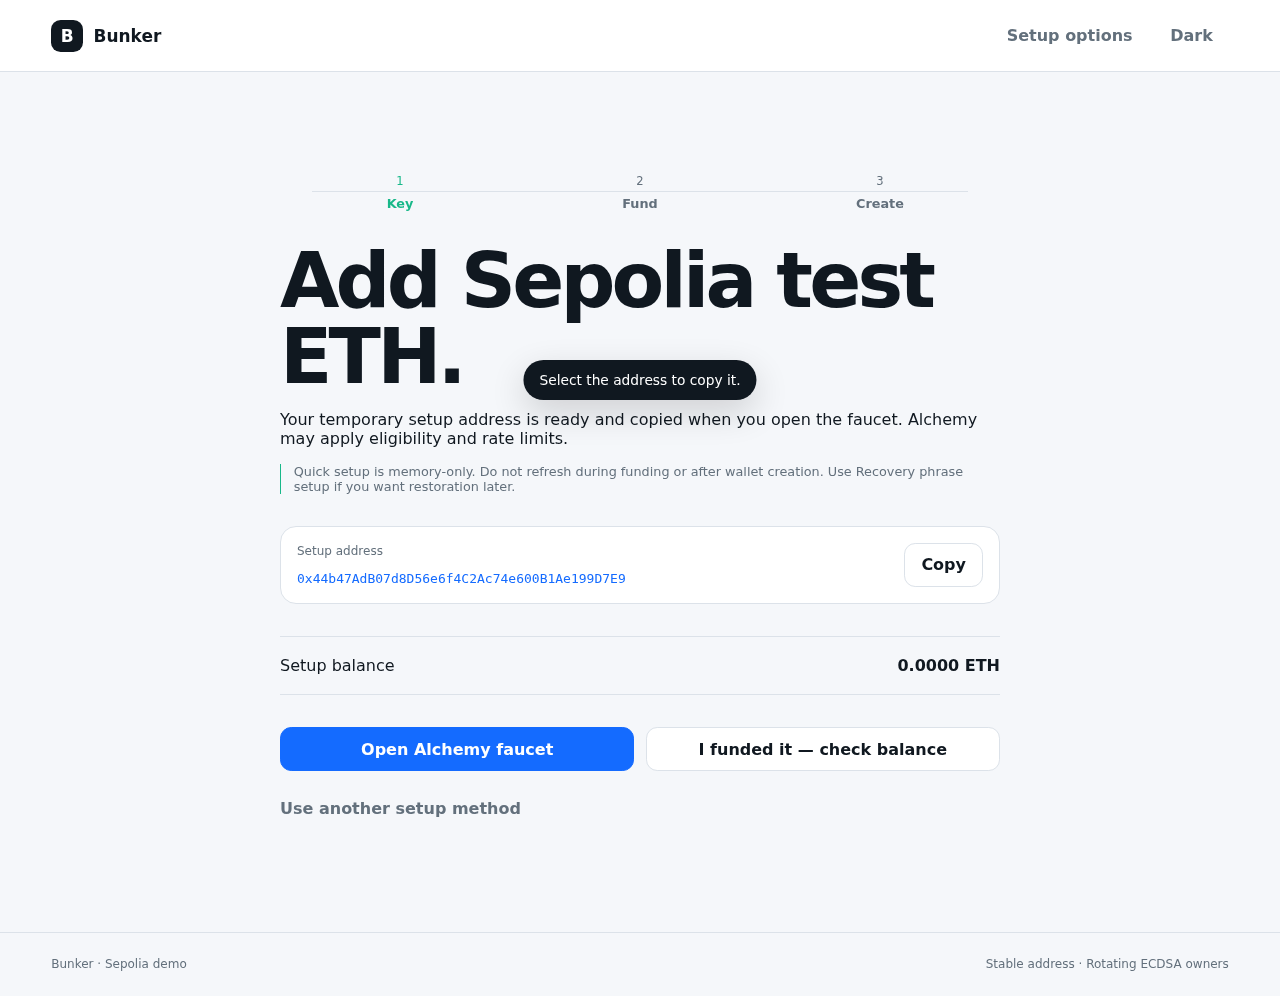
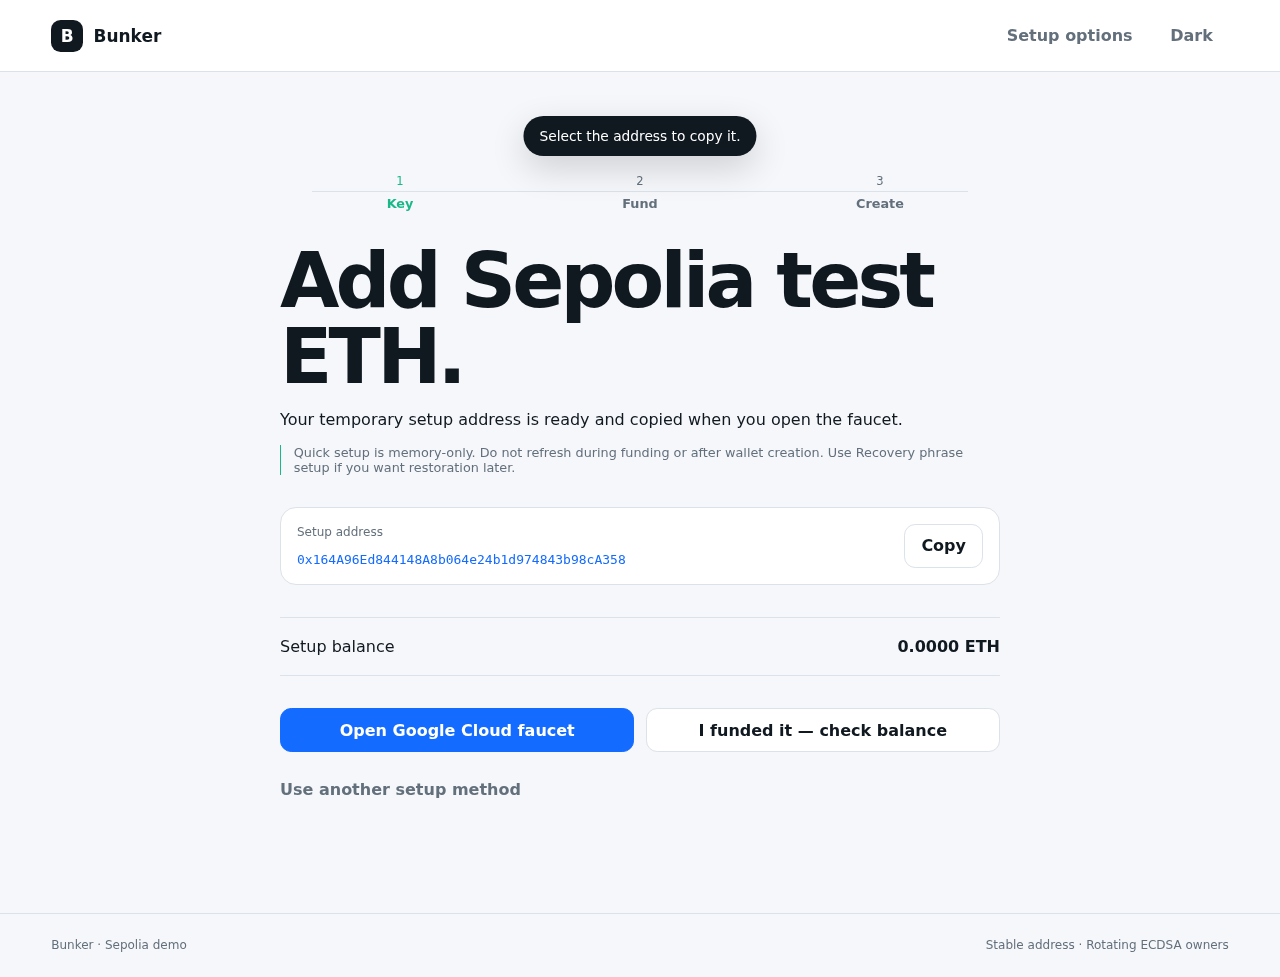
Restore Google Cloud Sepolia faucet

diff --git a/apps/web/src/App.tsx b/apps/web/src/App.tsx
@@ -32,7 +32,7 @@ export default function App(){
  return <div class={`site ${theme()}`}><header class="top"><button class="brand" onClick={()=>go(walletAddress()?"wallet":"landing")}><span>B</span>Bunker</button><nav><Show when={walletAddress()}><button onClick={()=>go("wallet")}>Wallet</button></Show><button onClick={()=>go("advanced")}>Setup options</button><button class="theme" onClick={()=>setTheme(theme()==="light"?"dark":"light")}>{theme()==="light"?"Dark":"Light"}</button><Show when={walletAddress()}><button onClick={exit}>Exit</button></Show></nav></header><Show when={notice()}><div class="toast" role="status">{notice()}</div></Show>
  <main>
  <Show when={view()==="landing"}><section class="hero-new"><div class="hero-copy"><span class="status-dot">Sepolia demo</span><h1>One address.<br/>Fresh keys.</h1><p>Keep one familiar Ethereum address while Bunker rotates the signing owner after every action—reducing exposure to future quantum attacks.</p><div class="hero-actions"><button class="primary" onClick={begin}>Create a Bunker</button><a class="button-link" href="#how-it-works">How it works</a></div><small>Unaudited testnet software. Never use mainnet or meaningful funds.</small></div><div class="mechanism" aria-label="Stable wallet address with rotating owner keys"><div class="address-head"><span>YOUR WALLET ADDRESS</span><b>Stays the same</b></div><code>0x71A4…92F0</code><div class="key-track"><div class="key spent"><Icon name="key"/><span>Key 08</span><small>Used</small></div><i>→</i><div class="key active"><Icon name="key"/><span>Key 09</span><small>Active</small></div><i>→</i><div class="key next"><Icon name="key"/><span>Key 10</span><small>Next</small></div></div><div class="action-line"><span>Send · Token · Message</span><b>Owner advances</b></div></div></section><div class="trust-line"><span>Ethereum native</span><span>Standard ECDSA</span><span>MIT open source</span><span>Safe architecture planned</span></div><section class="why" id="how-it-works"><div class="why-head"><span>Why Bunker?</span><h2>Rotate the keys.<br/>Keep the wallet.</h2></div><div class="why-list"><article><b>01</b><div><h3>One address</h3><p>Receive assets and build history without changing your wallet identity.</p></div></article><article><b>02</b><div><h3>Atomic rotation</h3><p>A supported action and the move to its next owner succeed together.</p></div></article><article><b>03</b><div><h3>Your keys, your control</h3><p>Quick keys stay in memory. Recovery setup stays local and can be encrypted.</p></div></article><article><b>04</b><div><h3>Familiar Ethereum</h3><p>Standard ECDSA and open-source contracts. No new chain or experimental cryptography.</p></div></article></div></section><section class="flow"><span>How it works</span><h2>One wallet. Fresh keys.<br/>Every action.</h2><ol><li><b>Create</b><small>Make a browser key.</small></li><li><b>Fund</b><small>Add Sepolia ETH.</small></li><li><b>Deploy</b><small>Get one wallet address.</small></li><li><b>Use</b><small>Act and rotate atomically.</small></li></ol></section><section class="roadmap"><div><span>The important distinction</span><h2>Less exposure.<br/>Not quantum-proof.</h2></div><p>Bunker still uses standard ECDSA. Rotation reduces how long an exposed owner remains useful; it does not make Ethereum post-quantum secure.</p><div class="roadmap-links"><button class="primary" onClick={begin}>Get started</button><a href="https://github.com/SilentCicero/bunker-wallet" target="_blank" rel="noreferrer">View the source →</a></div><small>Safe, Ledger, Trezor, and offline signing remain planned and audit-gated.</small></section></Show>
- <Show when={view()==="setup"}><section class="setup"><div class="stepper"><span class="done">1 <b>Key</b></span><span classList={{done:setupBalance()>=parseEther("0.007")}}>2 <b>Fund</b></span><span classList={{done:Boolean(walletAddress())}}>3 <b>Create</b></span></div><h1>{setupBalance()>=parseEther("0.007")?"Create your stable wallet.":"Add Sepolia test ETH."}</h1><p>{setupBalance()>=parseEther("0.007")?"Your setup key is funded. Create the wallet contract and move the test ETH into its permanent address.":"Your temporary setup address is ready and copied when you open the faucet. Alchemy may apply eligibility and rate limits."}</p><Show when={!recoverable()}><p class="ephemeral-note">Quick setup is memory-only. Do not refresh during funding or after wallet creation. Use Recovery phrase setup if you want restoration later.</p></Show><div class="setup-address"><span>Setup address</span><code>{setupAddress()}</code><button onClick={()=>copy(setupAddress())}>Copy</button></div><div class="balance-row"><span>Setup balance</span><strong>{Number(formatEther(setupBalance())).toFixed(4)} ETH</strong></div><Show when={setupBalance()>=parseEther("0.007")} fallback={<div class="setup-actions"><button class="primary" onClick={openFaucet}>Open Alchemy faucet</button><button onClick={checkFunding} disabled={Boolean(busy())}>{busy()||"I funded it — check balance"}</button></div>}><button class="primary wide" onClick={createStableWallet} disabled={Boolean(busy())}>{busy()||"Create stable wallet"}</button></Show><button class="text-button" onClick={()=>go("advanced")}>Use another setup method</button></section></Show>
+ <Show when={view()==="setup"}><section class="setup"><div class="stepper"><span class="done">1 <b>Key</b></span><span classList={{done:setupBalance()>=parseEther("0.007")}}>2 <b>Fund</b></span><span classList={{done:Boolean(walletAddress())}}>3 <b>Create</b></span></div><h1>{setupBalance()>=parseEther("0.007")?"Create your stable wallet.":"Add Sepolia test ETH."}</h1><p>{setupBalance()>=parseEther("0.007")?"Your setup key is funded. Create the wallet contract and move the test ETH into its permanent address.":"Your temporary setup address is ready and copied when you open the faucet."}</p><Show when={!recoverable()}><p class="ephemeral-note">Quick setup is memory-only. Do not refresh during funding or after wallet creation. Use Recovery phrase setup if you want restoration later.</p></Show><div class="setup-address"><span>Setup address</span><code>{setupAddress()}</code><button onClick={()=>copy(setupAddress())}>Copy</button></div><div class="balance-row"><span>Setup balance</span><strong>{Number(formatEther(setupBalance())).toFixed(4)} ETH</strong></div><Show when={setupBalance()>=parseEther("0.007")} fallback={<div class="setup-actions"><button class="primary" onClick={openFaucet}>Open Google Cloud faucet</button><button onClick={checkFunding} disabled={Boolean(busy())}>{busy()||"I funded it — check balance"}</button></div>}><button class="primary wide" onClick={createStableWallet} disabled={Boolean(busy())}>{busy()||"Create stable wallet"}</button></Show><button class="text-button" onClick={()=>go("advanced")}>Use another setup method</button></section></Show>
  <Show when={view()==="wallet"&&walletAddress()}><section class="wallet"><div class="wallet-top"><div><span class="status-dot">Sepolia · live</span><h1>{Number(formatEther(walletBalance())).toFixed(4)} ETH</h1><small class="spendable">Keep 0.001 ETH for the next owner key on every action.</small><button class="address-copy" onClick={()=>copy(walletAddress())}>{short(walletAddress()!)} · Copy</button></div><div class="rotation-card"><span>OWNER ROTATION</span><strong>Key {rotation()+1}</strong><p>Active underneath your stable address</p><div><i style={{width:`${Math.min(100,(rotation()+1)*8)}%`}}/></div></div></div><div class="stable"><span>Stable wallet address</span><code>{walletAddress()}</code><b>Does not change</b></div><div class="wallet-grid"><section class="actions-panel"><div class="action-tabs"><button classList={{active:action()==="eth"}} onClick={()=>setAction("eth")}><Icon name="send"/>ETH</button><button classList={{active:action()==="token"}} onClick={()=>setAction("token")}><Icon name="token"/>Token</button><button classList={{active:action()==="message"}} onClick={()=>setAction("message")}><Icon name="message"/>Wall</button></div><Show when={action()==="eth"}><h2>Send ETH</h2><label>Recipient<input ref={to} placeholder="0x…"/></label><label>Amount<input ref={amount} inputmode="decimal" placeholder="0.001"/></label><button class="primary wide" onClick={runETH} disabled={Boolean(busy())}>{busy()||"Send + rotate key"}</button></Show><Show when={action()==="token"}><h2>Send ERC-20</h2><label>Token contract<input ref={token} placeholder="0x…"/></label><label>Recipient<input ref={to} placeholder="0x…"/></label><div class="split"><label>Amount<input ref={amount} placeholder="10"/></label><label>Decimals<input ref={decimals} value="18"/></label></div><button class="primary wide" onClick={runToken} disabled={Boolean(busy())}>{busy()||"Send token + rotate"}</button></Show><Show when={action()==="message"}><h2>Post to the Bunker wall</h2><p class="muted">Write a short on-chain message from this stable address.</p><textarea ref={message} maxlength="140" placeholder="Hello from my rotating wallet"/><button class="primary wide" onClick={runMessage} disabled={Boolean(busy())}>{busy()||"Post + rotate key"}</button></Show></section><aside class="activity"><h2>Under the hood</h2><For each={activity()}>{item=><div class="activity-row"><span>{item.index===rotation()?"Current":"Done"}</span><p><b>{item.label}</b><small>Owner key {item.index+1}</small></p>{item.hash&&<a href={`https://sepolia.etherscan.io/tx/${item.hash}`} target="_blank" rel="noreferrer">View</a>}</div>}</For></aside></div></section></Show>
  <Show when={view()==="advanced"}><section class="advanced"><button class="back" onClick={()=>go("landing")}>← Back</button><h1>Choose how to protect the setup key.</h1><p>Each method creates a stable wallet address with automatic owner rotation.</p><div class="option-list"><button onClick={createPhrase}><span>Recovery phrase</span><small>24 words · optional check and password</small><b>Set up</b></button><button onClick={()=>go("load")}><span>Load existing wallet</span><small>Encrypted vault or 24 words</small><b>Load</b></button><button disabled><span>Ledger</span><small>Hardware setup · compatibility verification in progress</small><b>Soon</b></button><button disabled><span>Trezor</span><small>Hardware setup · compatibility verification in progress</small><b>Soon</b></button><button disabled><span>EVM wallet</span><small>Manual next-key proof required</small><b>Soon</b></button></div></section></Show>
  <Show when={view()==="phrase"}><section class="secure"><span class="status-dot">Secure setup</span><h1>Write down these 24 words.</h1><p>Keep them offline. They recover every owner key in sequence.</p><ol class="words" ref={phraseList}/><label class="check"><input type="checkbox" checked={confirmed()} onChange={e=>setConfirmed(e.currentTarget.checked)}/> I saved the phrase offline.</label><div class="secure-actions"><button class="primary" disabled={!confirmed()} onClick={()=>go("confirm")}>Check my backup</button><button disabled={!confirmed()} onClick={()=>go("vault")}>Skip check</button></div></section></Show>

diff --git a/tests/e2e/web.e2e.ts b/tests/e2e/web.e2e.ts
@@ -3,5 +3,5 @@ import { mkdirSync } from "node:fs";
 const views=[["desktop",1440,900],["wide",1920,1080],["tablet",768,1024],["mobile",390,844],["mobile-small",360,800]] as const;
 test.beforeAll(()=>mkdirSync(".impeccable/review",{recursive:true}));
 for(const [name,width,height] of views)test(`${name} landing renders in both themes`,async({page})=>{await page.setViewportSize({width,height});await page.goto("/");await expect(page.getByRole("heading",{name:/One address.*Fresh keys/s})).toBeVisible();await expect(page.getByRole("button",{name:"Create a Bunker"})).toBeVisible();await expect(page.getByText(/reducing exposure to future quantum attacks/)).toBeVisible();await expect(page.getByText("Rotate the keys.")).toBeVisible();await expect(page.getByText("A supported action and the move to its next owner succeed together.")).toBeVisible();await expect(page.getByText("Less exposure.")).toBeVisible();await expect(page.getByText("MIT open source")).toBeVisible();await expect(page.getByRole("link",{name:/View the source/})).toHaveAttribute("href","https://github.com/SilentCicero/bunker-wallet");expect(await page.evaluate(()=>document.documentElement.scrollWidth<=document.documentElement.clientWidth)).toBe(true);await page.screenshot({path:`.impeccable/review/${name}-light.png`,fullPage:true});await page.getByRole("button",{name:"Dark"}).click();await page.screenshot({path:`.impeccable/review/${name}-dark.png`,fullPage:true})});
-test("three-step demo creates a memory-only setup key and opens the Alchemy faucet",async({page})=>{await page.goto("/");await page.getByRole("button",{name:"Create a Bunker"}).click();await expect(page.getByRole("heading",{name:"Add Sepolia test ETH."})).toBeVisible();const address=await page.locator(".setup-address code").innerText();expect(address).toMatch(/^0x[0-9a-fA-F]{40}$/);expect(await page.evaluate(()=>Object.keys(localStorage).every(key=>!key.includes("burner")))).toBe(true);const popupPromise=page.waitForEvent("popup");await page.getByRole("button",{name:"Open Alchemy faucet"}).click();const popup=await popupPromise;expect(popup.url()).toContain("www.alchemy.com/faucets/ethereum-sepolia");await popup.close();await page.screenshot({path:".impeccable/review/setup-light.png",fullPage:true})});
+test("three-step demo creates a memory-only setup key and opens the Google Cloud faucet",async({page})=>{await page.goto("/");await page.getByRole("button",{name:"Create a Bunker"}).click();await expect(page.getByRole("heading",{name:"Add Sepolia test ETH."})).toBeVisible();const address=await page.locator(".setup-address code").innerText();expect(address).toMatch(/^0x[0-9a-fA-F]{40}$/);expect(await page.evaluate(()=>Object.keys(localStorage).every(key=>!key.includes("burner")))).toBe(true);const popupPromise=page.waitForEvent("popup");await page.getByRole("button",{name:"Open Google Cloud faucet"}).click();const popup=await popupPromise;expect(popup.url()).toContain("cloud.google.com/application/web3/faucet/ethereum/sepolia");await popup.close();await page.screenshot({path:".impeccable/review/setup-light.png",fullPage:true})});
 test("advanced phrase setup offers optional check and password",async({page})=>{await page.goto("/");await page.getByRole("button",{name:"Setup options"}).click();await page.getByRole("button",{name:/Recovery phrase/}).click();const next=page.getByRole("button",{name:"Check my backup"});await expect(next).toBeDisabled();await page.getByRole("checkbox").check();await expect(next).toBeEnabled();await expect(page.getByRole("button",{name:"Skip check"})).toBeEnabled()});

diff --git a/apps/web/src/burner.test.ts b/apps/web/src/burner.test.ts
@@ -2,5 +2,5 @@ import { afterEach, expect, test } from "bun:test";
 import { clearEphemeralBurner, createEphemeralBurner, hasEphemeralBurner, readSepoliaBalance, SEPOLIA_CHAIN_ID, SEPOLIA_FAUCET } from "./burner";
 afterEach(clearEphemeralBurner);
 test("creates a memory-only burner address and clears it", () => { expect(SEPOLIA_CHAIN_ID).toBe(11155111); const address=createEphemeralBurner(); expect(address).toMatch(/^0x[0-9a-fA-F]{40}$/); expect(hasEphemeralBurner()).toBe(true); clearEphemeralBurner(); expect(hasEphemeralBurner()).toBe(false); });
-test("uses the allowlisted Alchemy Sepolia faucet", () => { const url=new URL(SEPOLIA_FAUCET); expect(url.protocol).toBe("https:"); expect(url.hostname).toBe("www.alchemy.com"); expect(url.pathname).toBe("/faucets/ethereum-sepolia"); });
+test("uses the allowlisted Google Cloud Sepolia faucet", () => { const url=new URL(SEPOLIA_FAUCET); expect(url.protocol).toBe("https:"); expect(url.hostname).toBe("cloud.google.com"); expect(url.pathname).toBe("/application/web3/faucet/ethereum/sepolia"); });
 test("bounds and validates Sepolia balance responses", async () => { const original=globalThis.fetch; const mock=(body:string):typeof fetch=>Object.assign(async (..._args:Parameters<typeof fetch>)=>new Response(body),{preconnect:original.preconnect}); try { globalThis.fetch=mock('{"jsonrpc":"2.0","id":1,"result":"0x2a"}'); expect(await readSepoliaBalance("0x0000000000000000000000000000000000000001")).toBe(42n); globalThis.fetch=mock('{"result":"0x00"}'); expect(readSepoliaBalance("0x0000000000000000000000000000000000000001")).rejects.toThrow("invalid balance"); } finally { globalThis.fetch=original; } });

diff --git a/apps/web/src/burner.ts b/apps/web/src/burner.ts
@@ -5,7 +5,7 @@ import { demoWalletAbi, demoWalletBytecode } from "./demoContract";
 
 export const SEPOLIA_CHAIN_ID = 11155111;
 export const SEPOLIA_RPC = "https://ethereum-sepolia-rpc.publicnode.com";
-export const SEPOLIA_FAUCET = "https://www.alchemy.com/faucets/ethereum-sepolia";
+export const SEPOLIA_FAUCET = "https://cloud.google.com/application/web3/faucet/ethereum/sepolia";
 let privateKey: Hex | undefined;
 let mnemonicSecret: string | undefined;
 let pendingPrivateKey: Hex | undefined;

diff --git a/README.md b/README.md
@@ -20,7 +20,7 @@ sequenceDiagram
 
 Working today:
 
-- compact three-step Sepolia flow: create setup key, fund through the Alchemy faucet with the address copied, deploy a stable demo wallet;
+- compact three-step Sepolia flow: create setup key, fund through the Google Cloud faucet with the address copied, deploy a stable demo wallet;
 - ETH, ERC-20 and short message actions that atomically rotate to a fresh owner;
 - visible stable address, contract balance, rotation index and session activity;
 - polished offline-capable SolidJS PWA;
@@ -60,7 +60,7 @@ See [architecture](docs/architecture.md), [threat model](docs/threat-model.md), 
 
 ## Storage choices
 
-**Quick Sepolia setup** creates a random key in the current tab and copies its address and opens the Alchemy faucet. It can deploy and use the demo wallet, but refresh loses access. Use recovery-phrase setup for deterministic owner recovery; record the stable wallet address alongside the phrase for restoration on another device.
+**Quick Sepolia setup** creates a random key in the current tab and copies its address and opens the Google Cloud faucet. It can deploy and use the demo wallet, but refresh loses access. Use recovery-phrase setup for deterministic owner recovery; record the stable wallet address alongside the phrase for restoration on another device.
 
 **Encrypted local vault** derives a 256-bit key with Argon2id and uses a fresh AES-GCM nonce. **Seed phrase only** persists nothing and requires re-entry after reload. Neither mode protects an unlocked phrase from compromised page code, extensions, the browser, or OS. JavaScript cannot guarantee secure erasure.
 

diff --git a/SECURITY_STATUS.md b/SECURITY_STATUS.md
@@ -9,7 +9,7 @@
 - 24-word BIP-39 generation and authenticated Argon2id/AES-GCM local vaults.
 - Runtime chain policy accepts only local Anvil `31337` and Sepolia `11155111`.
 - Static web UI and loopback-only validation relay with no signing key.
-- Sepolia-only setup keys, copied-address Alchemy faucet handoff, demo-wallet deployment, and ETH/ERC-20/message actions.
+- Sepolia-only setup keys, copied-address Google Cloud faucet handoff, demo-wallet deployment, and ETH/ERC-20/message actions.
 - Contract compilation and static review enforce atomic action, next-owner funding, and owner activation while preserving the wallet contract address.
 - Recovery-phrase mode derives owners deterministically; quick setup remains memory-only and is unrecoverable after refresh.
 
